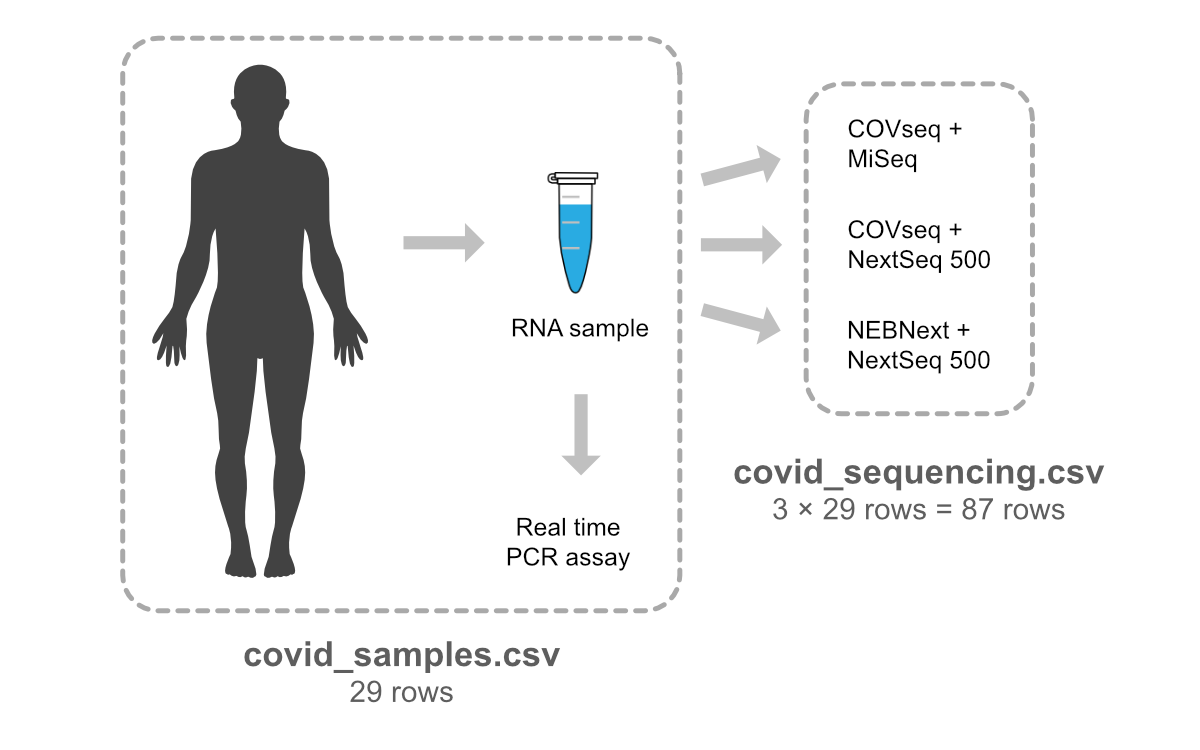
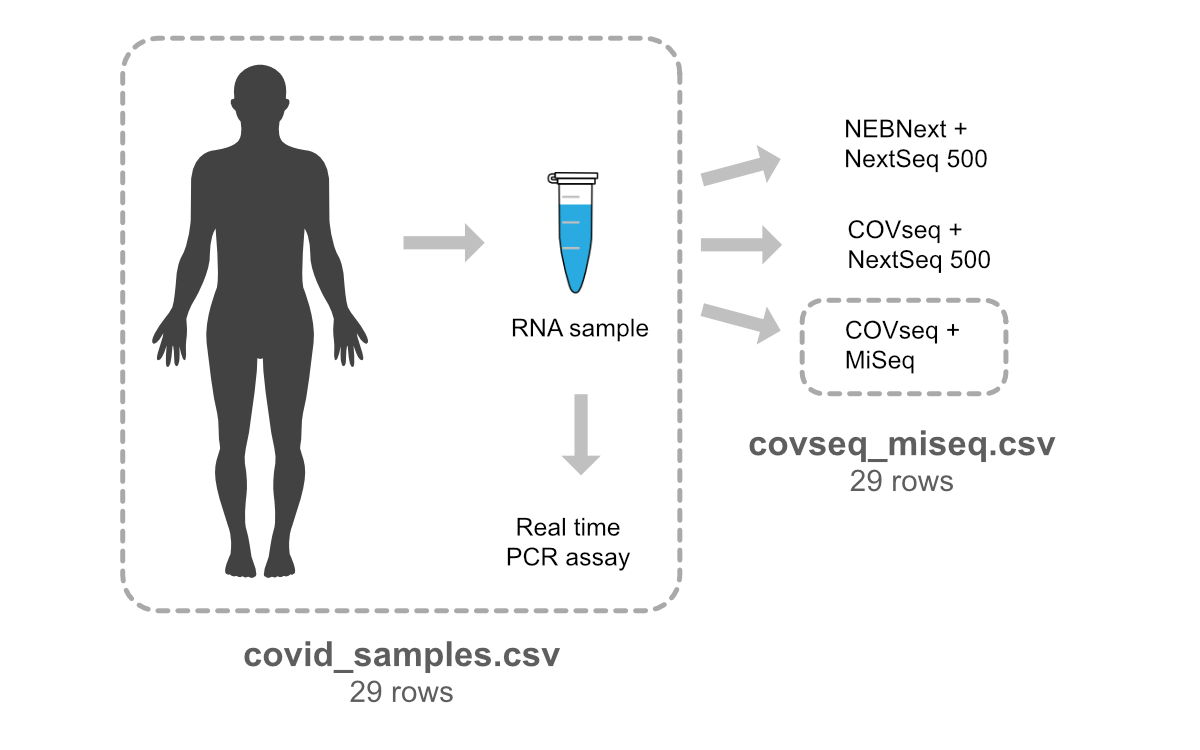
Replace sequencing.csv with covseq_miseq.csv

diff --git a/_episodes/03-basics-factors-dataframes.md b/_episodes/03-basics-factors-dataframes.md
@@ -40,20 +40,19 @@ method, "COVseq", for obtaining viral genome sequences. The researchers were
 particularly interested in the method's ability to detect new viral variants.
 
 We will use two datasets that are stored in comma-separated values (CSV) files:
-`covid_samples.csv` and `covid_sequencing.csv`. The first dataset contains 29
-rows describing the SARS-CoV-2 samples. The second dataset contains results from
-applying three different sequencing procedures to each sample. This dataset has
-87 rows, i.e. three rows for each sample. The COVseq method is part of two of
-the three investigated procedures, and is thus represented by two thirds of the
-rows in the sequencing dataset.
+`covid_samples.csv` and `covseq_miseq.csv`. The first dataset is mainly
+describing the SARS-CoV-2 samples. The second dataset contains some results from
+sequencing the samples using the COVseq method on an Illumina MiSeq
+instrument. This particular set-up was one of three sequencing strategies
+examined by the researchers.
 
-![SARS-CoV-2 data used .](../fig/COVseq-samples.png)
+![SARS-CoV-2 data used in this lesson.](../fig/COVseq-samples.png)
 
 ## Loading the samples data
 
-We will start with the dataset with 29 rows, where each row represents one
-positive SARS-CoV-2 sample (and consequently one individual). This dataset has
-the following columns:
+We will start with the samples dataset. This dataset has 29 rows that each
+represents one positive SARS-CoV-2 sample (and consequently one individual). The
+dataset has the following columns:
 
 | Column          | Description                                                                                                                     |
 |-----------------|---------------------------------------------------------------------------------------------------------------------------------|

diff --git a/setup.md b/setup.md
@@ -17,7 +17,7 @@ title: Setup
 >
 > The following files are used in this lesson:
 > * [covid_samples.csv](data/covid_samples.csv)
-> * [sequencing.csv](data/covid_sequencing.csv)
+> * [covseq_miseq.csv](data/covseq_miseq.csv)
 >
 > The data is taken from the following study:
 > 
